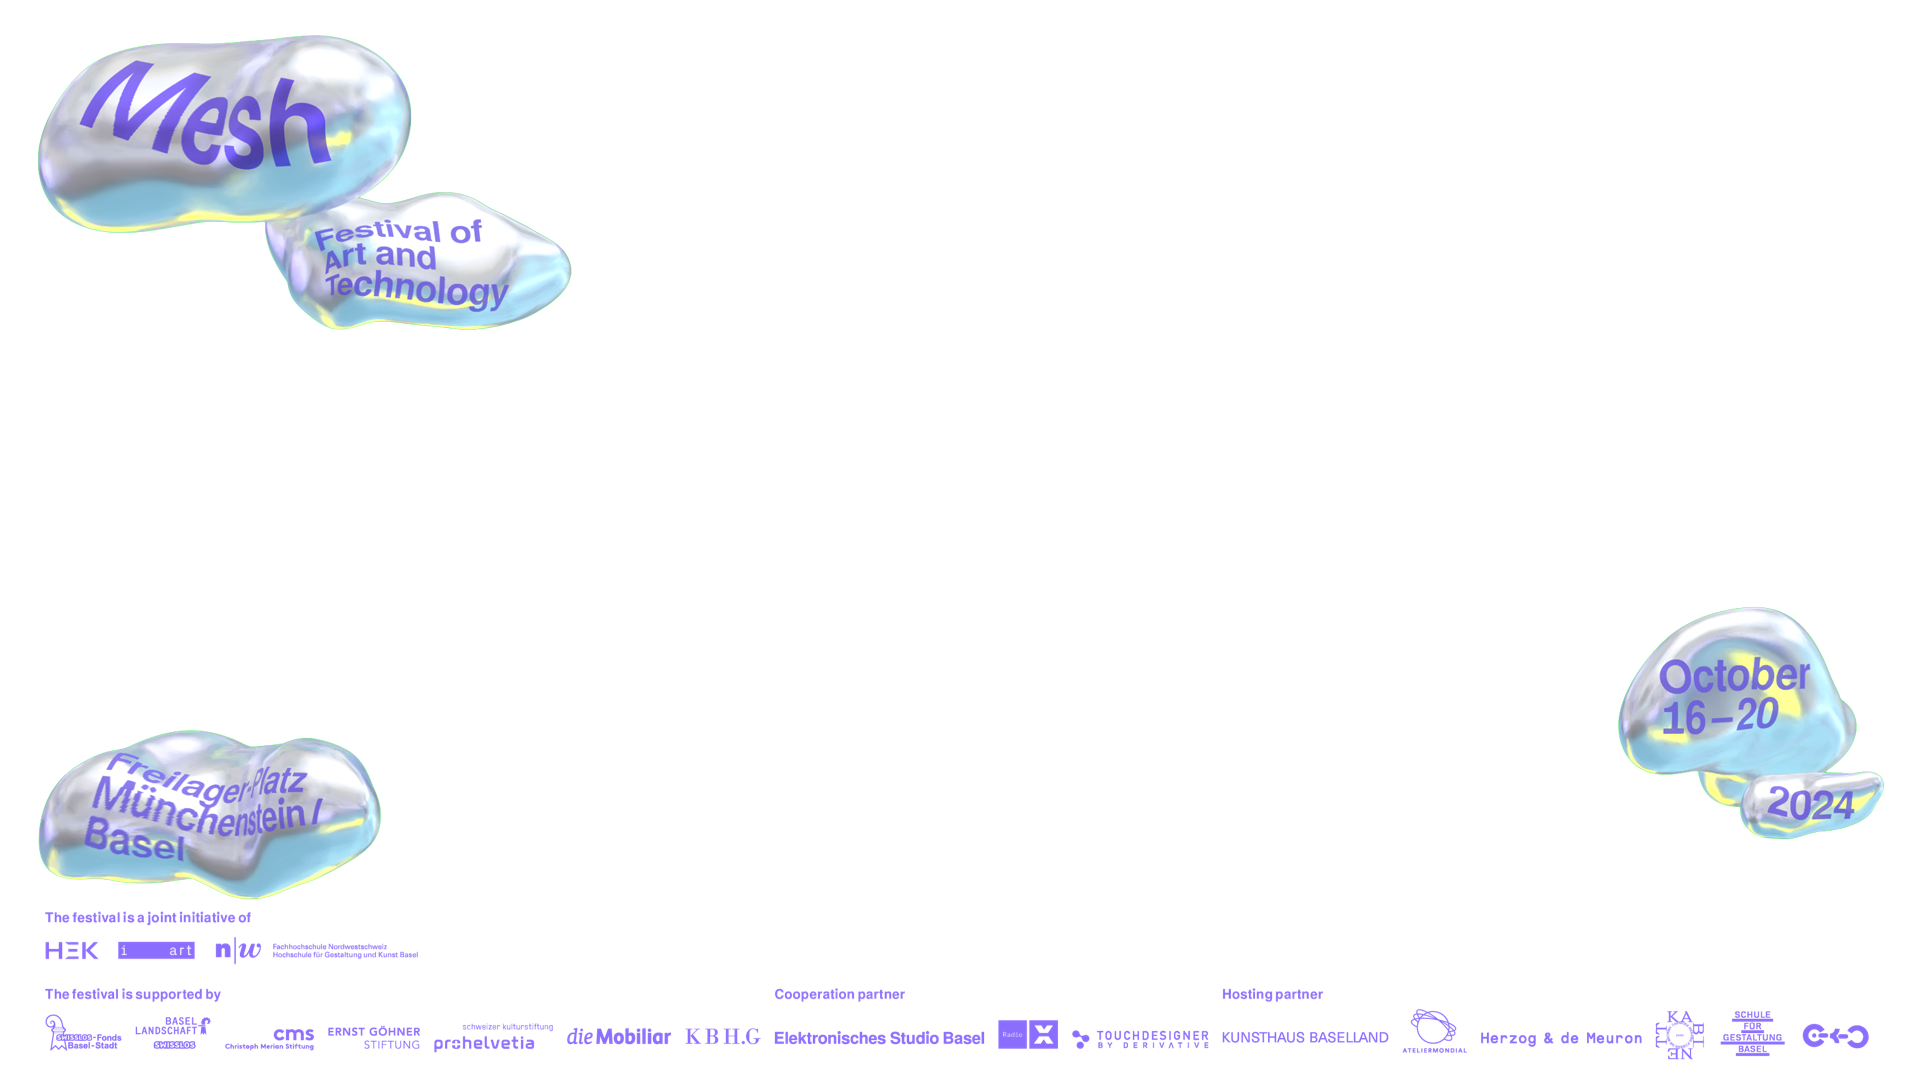
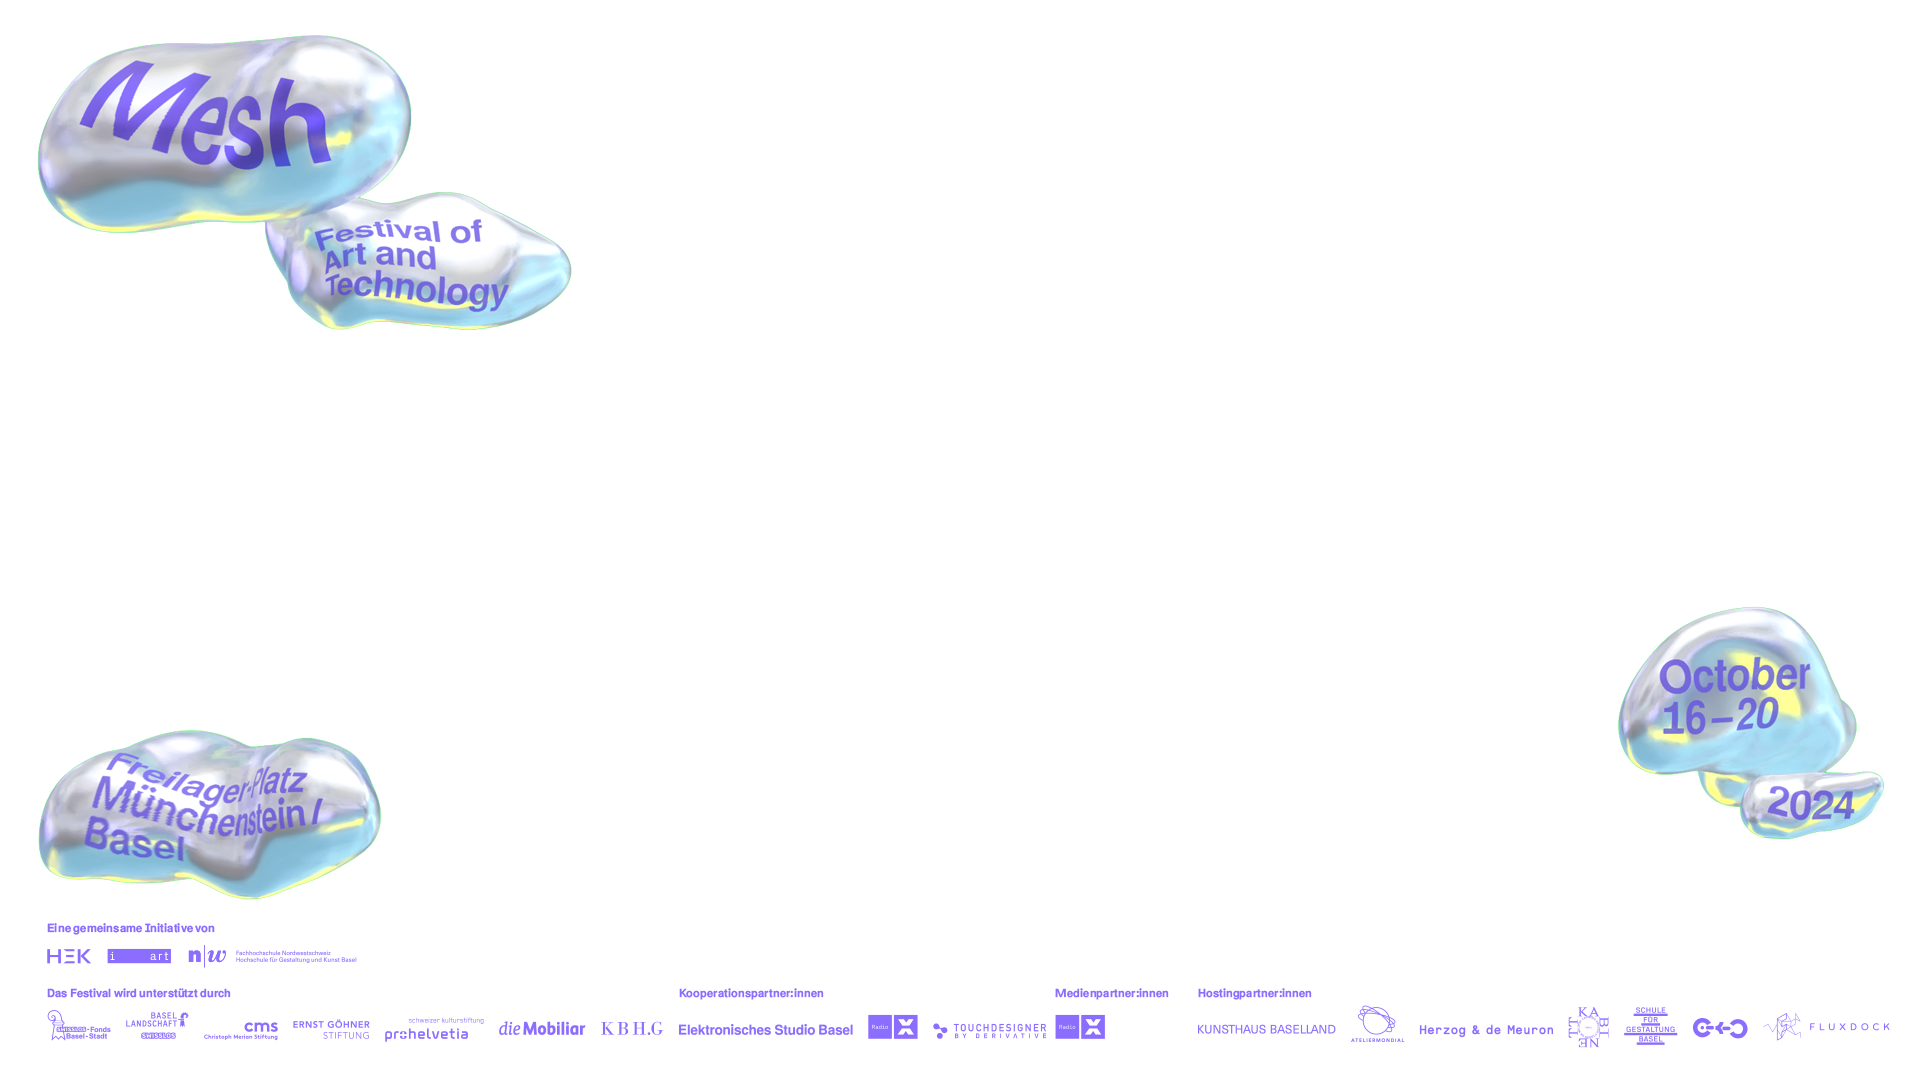
Update Template

Changed region(s): [[0.0, 0.825, 0.9688, 0.9778]]

diff --git a/static/html/template2.html b/static/html/template2.html
@@ -1,0 +1,192 @@
+<html>
+    <head>
+        <script src="https://code.jquery.com/jquery-3.5.1.min.js" integrity="sha256-9/aliU8dGd2tb6OSsuzixeV4y/faTqgFtohetphbbj0=" crossorigin="anonymous"></script>
+        <title>Mesh – Festival of Art and Technology – Template</title>
+        <style>
+            @font-face {
+                font-family: 'FreeSerif-JK';
+                src: url('../fonts/JK-MESH-Serif.woff2') format('woff2'),
+                    url('../fonts/JK-MESH-Serifwoff') format('woff');
+                font-weight: 500;
+                font-display: swap;
+            }
+
+            @font-face {
+                font-family: 'FreeSans-JK';
+                src: url('../fonts/JK-MESH-Sans.woff2') format('woff2'),
+                    url('../fonts/JK-MESH-Sans.woff') format('woff');
+                font-weight: bold;
+                font-style: normal;
+            }
+            body{
+                margin: 0;
+                font-family: 'FreeSans-JK';
+                text-align: center;
+                font-size: 28px;
+                line-height: 28px;
+                text-align: left;
+                color: rgb(140, 110, 255);
+                min-height: 120vh;
+            }
+            p{
+                margin-left: 10px;
+                margin-block-start: 0em;
+                margin-block-end: 0em;
+                font-size: 14px;
+                line-height: 16px;
+            }
+            h1{
+                margin: 10px;
+                font-weight: normal;
+                font-size: 28px;
+                line-height: 28px;
+            }
+           textarea,button
+                {
+                border:1px solid rgb(140, 110, 255);
+                font-family: 'FreeSans-JK';
+                font-size: 28px;
+                line-height: 28px;
+                text-align: center;
+                color: rgb(140, 110, 255);
+                background: transparent;
+                width: 45vw;
+                display: block;
+                resize: none;
+                margin: 10px;
+
+            }
+            button{
+                display: block;
+                margin: 10px;
+                background: #ccc;
+                cursor: pointer;
+                padding: 10px;
+            }
+            button:hover{
+                background: rgb(140, 110, 255);
+                color: #ccc;
+            }
+            #input2{
+                font-family: 'FreeSerif-JK';
+                
+            }
+
+            canvas{
+                position: fixed;
+                right: -2000px;
+                bottom: -2000px; 
+
+            }
+            img{
+                transform-origin: top left;
+                transform: scale(0.5);
+                box-shadow: 0 0 10px rgb(140, 110, 255);
+                margin: 10px;
+            }
+            .backimage{
+                width: 960px;
+                height: 540px;
+                position: absolute;
+                background-image: url('../img/template-back.jpg');
+                background-size: contain;
+                margin: 10px;
+            }
+        </style>
+    </head>
+    <body>
+        <h1>Mesh Festival Keynote Template</h1>
+        <textarea rows="3" id="input1" placeholder="Artist Name"></textarea>
+        <textarea rows="3" id="input2" placeholder="Title of the Presentation"></textarea>
+<p>Manually add line breaks if needed.</p>
+    
+        <button onclick="render()">Generate PNG</button>
+
+        <canvas id="canvas" width="1920" height="1080"></canvas>
+        <img>
+        <div class="backimage"></div>
+        <script>
+            function render(){
+    
+            $('#image').remove();
+
+            var line1 = $('#input1').val().trim();
+            var line2 = $('#input2').val().trim();
+            var separateLines1 = line1.split(/\r?\n|\r|\n/g);
+            var separateLines2 = line2.split(/\r?\n|\r|\n/g);
+            var fontSize1 = 150;
+            var fontSize2 = 175;
+            var lineHeight = 160;
+            var lineHeightSans = 140;
+            var scale = 1;
+
+            var totalLines = separateLines1.length+separateLines2.length;
+            var center = 500;
+            //console.log(totalLines);
+            //console.log(separateLines1.length - separateLines2.length);
+
+            if(totalLines > 9){
+                scale = 0.5;
+            }else if(totalLines > 7){
+                scale = 0.6;
+            }else if(totalLines > 5){
+                scale = 0.7;
+            }
+
+            center = center + (lineHeight*(separateLines1.length - separateLines2.length)*0.5*scale);
+
+            const canvas = document.getElementById('canvas');
+            const ctx = canvas.getContext('2d');
+            ctx.clearRect(0, 0, 1920, 1080);
+
+
+
+                ctx.font = fontSize1*scale+'px FreeSans-JK';
+                ctx.fillStyle = '#8C6EFF'
+                ctx.textAlign = "center";
+                ctx.textBaseline = 'bottom';
+
+                y = center;
+                for (let i = separateLines1.length-1; i > -1; i--) {
+                    ctx.fillText(separateLines1[i], 960, y);
+                    y = y - lineHeightSans*scale;
+                }
+
+
+                ctx.textBaseline = 'top';
+                ctx.font = fontSize2*scale+'px FreeSerif-JK';
+                y = center;
+                for (let i = 0; i < separateLines2.length; i++) {
+                    ctx.fillText(separateLines2[i], 960, y);
+                    y = y + lineHeight*scale;
+                }
+                
+                var foreground = new Image();
+                foreground.src = "template3.png";
+
+                foreground.onload = function(){
+                    ctx.drawImage(foreground,0,0);   
+
+                    var dataURL = canvas.toDataURL("image/png");
+
+                    $('body').append('<a id="image" href="'+dataURL+'" download="Mesh-Festival-Cover.png"><img src="'+dataURL+'"></>');
+
+                }
+
+
+
+
+
+
+
+
+
+
+
+
+
+            }
+
+        </script>
+    </body>
+</html>

diff --git a/static/script/timetable.js b/static/script/timetable.js
@@ -50,6 +50,13 @@ var rowWidth = 13;
 if($(window).width() < $(window).outerHeight()){
     var rowWidth = 20;
 }
+var shrinkHeight = 1.3;
+var originalHeight = 5;
+var reductionHeight = originalHeight - shrinkHeight;
+var rowWidth = 17;
+
+
+
 
 function getFirstByColumn(){
     firstInRow.length = 0;